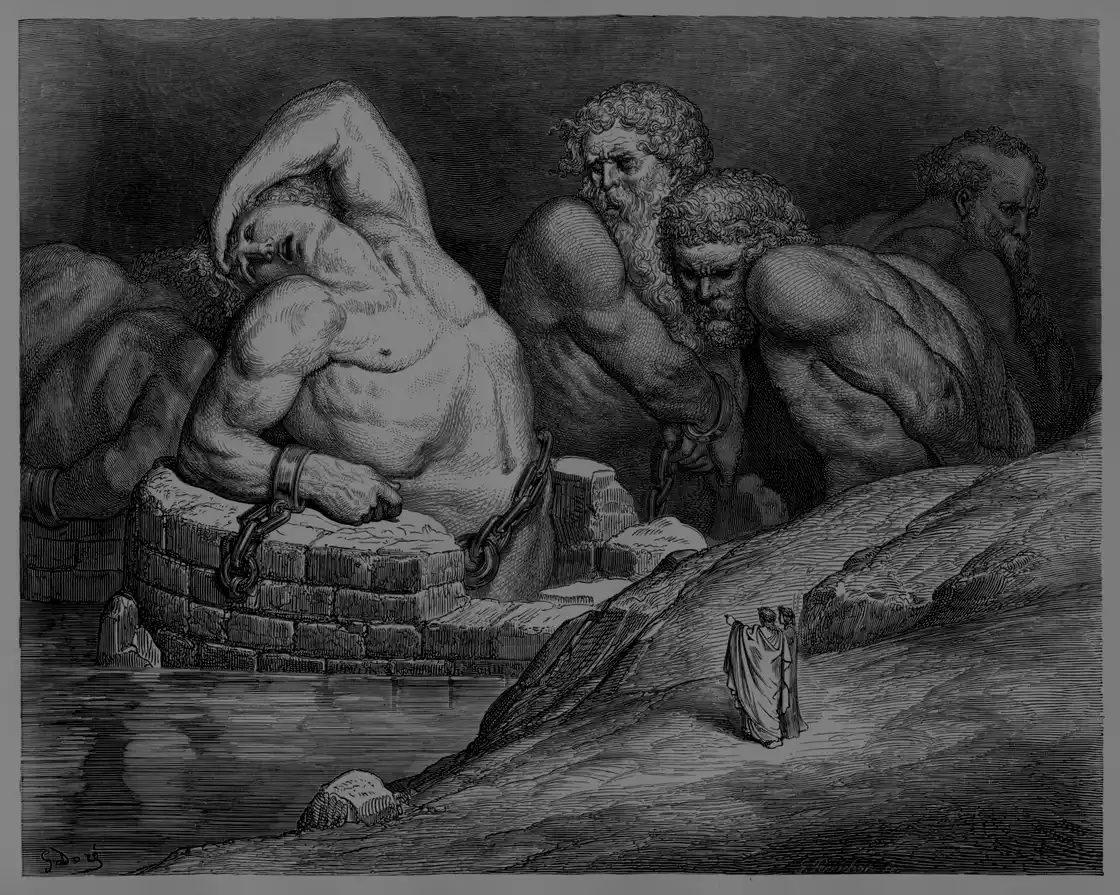
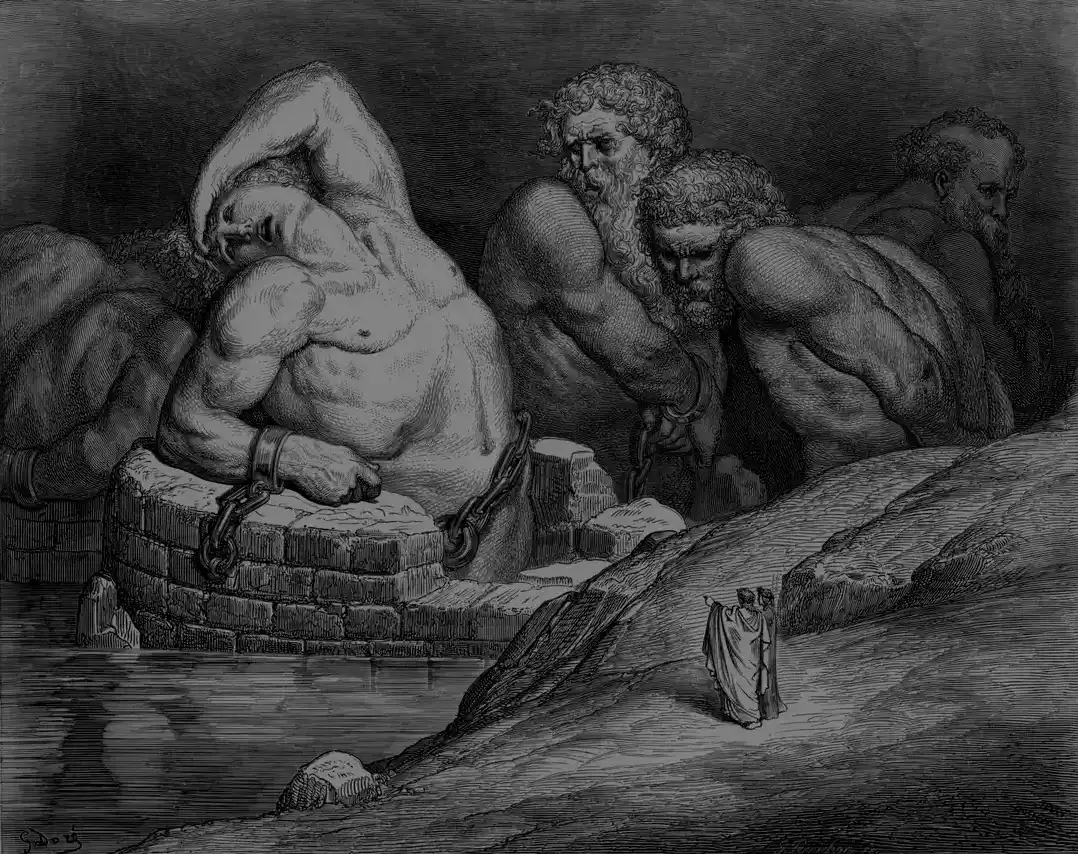
ui-fresh-eyes: map plates - crop the blank page margins off the pit and wentworth street
- DECISION-6 (row C-267)
  Cropped the scanned page margins off the-pit.webp (1120x895 -> 1078x854) and wentworth-street.webp (907x1120 -> 897x1112), left ludgate-hill.webp uncropped because it is already full-bleed, and recorded each decision in provenance.json.

Repair group I-plates. The after-capture regression readers compared
before and after at both viewports and found this damage in the sweep's
own fixes, or a decided fix it had failed to ship. Each repair carries a
test that fails against the damaged version.

diff --git a/axiomancer-mobile/assets/images/maps/__tests__/plate-crop.test.ts b/axiomancer-mobile/assets/images/maps/__tests__/plate-crop.test.ts
@@ -1,0 +1,207 @@
+/**
+ * Map-plate crop gate — DECISION-6 (row C-267), the follow-through on
+ * S4-world-C21.
+ *
+ * The owner's decision was "crop the Doré plates above their baked-in
+ * captions", plural. `charon-crossing.webp` was cropped and the other three
+ * were not, so the codex shipped plates that still carried the scanned book's
+ * blank page paper. Under `contentFit="cover"` that paper does not vanish: at
+ * 1280x800 a side margin survives as a pale bar down the screen edge, at
+ * 375x812 a foot margin survives as a pale rule under the art. Either way the
+ * backdrop stops being an engraving bled into the void and becomes a photo of
+ * a page.
+ *
+ * So this gate states the invariant at the asset, where the damage lives:
+ *
+ *   1. No shipped plate may have an outermost row or column that is FLAT BLANK
+ *      PAPER — mostly above the paper floor AND tonally dead. Both halves
+ *      matter: Ludgate Hill's sky is a legitimately bright edge (70% of that
+ *      row sits above the floor) but it is full of ink and reads as a tonal
+ *      range of ~106, while a page margin reads under 10. Testing brightness
+ *      alone would demand a crop that plate does not need.
+ *   2. A `post_process` note that records a crop as "AxB -> CxD" must name the
+ *      file's real size. The record is the only account of what was taken off;
+ *      a record that drifts from the pixels is worse than none.
+ *
+ * Hermetic: committed bytes off disk, no network, no device. Follows the
+ * sanctioned committed-source file-scan pattern used by
+ * `lib/platform/__tests__/boundary.test.ts`.
+ */
+
+import { describe, expect, it } from '@jest/globals';
+import { readdirSync, readFileSync } from 'fs';
+import * as path from 'path';
+import sharp from 'sharp';
+
+const MAPS_DIR = path.resolve(__dirname, '..');
+
+/** Luminance at or below which a pixel is ink rather than page paper, after the recorded grade. */
+const PAPER_FLOOR = 105;
+
+/** A line this bright is a candidate page margin — Ludgate's sky sits at 0.70 and is cleared by flatness. */
+const PAPER_SHARE = 0.45;
+
+/** Tonal range below this is dead flat: a scanned margin reads under 10, the flattest real edge reads 94. */
+const FLAT_RANGE = 85;
+
+type EdgeName = 'top' | 'bottom' | 'left' | 'right';
+
+/**
+ * Read every .webp plate in this directory as 8-bit greyscale samples.
+ *
+ * Purpose: give the assertions the plate's real pixels rather than its
+ * filename, so a crop that was recorded but never applied still fails.
+ * Inputs: none (reads the committed directory).
+ * Outputs: one entry per plate — file name, width, height, and the raw
+ * single-channel sample buffer.
+ * Resolves: DECISION-6 (row C-267).
+ */
+async function readPlates(): Promise<
+    { name: string; width: number; height: number; samples: Buffer }[]
+> {
+    const names = readdirSync(MAPS_DIR)
+        .filter((f) => f.endsWith('.webp'))
+        .sort();
+    return Promise.all(
+        names.map(async (name) => {
+            const { data, info } = await sharp(readFileSync(path.join(MAPS_DIR, name)))
+                .greyscale()
+                .raw()
+                .toBuffer({ resolveWithObject: true });
+            const stride = info.channels;
+            const samples = Buffer.alloc(info.width * info.height);
+            for (let i = 0; i < samples.length; i++) samples[i] = data[i * stride];
+            return { name, width: info.width, height: info.height, samples };
+        }),
+    );
+}
+
+/**
+ * The four outermost pixel lines of a plate.
+ *
+ * Purpose: a page margin always reaches the very edge of the file, so the
+ * outermost line is where it is provable; a partial crop that leaves one paper
+ * row still fails here.
+ * Inputs: the greyscale samples plus the plate's width and height.
+ * Outputs: a record of edge name to that edge's samples, top/bottom read
+ * left-to-right and left/right read top-to-bottom.
+ * Resolves: DECISION-6 (row C-267).
+ */
+function edgeLines(samples: Buffer, width: number, height: number): Record<EdgeName, number[]> {
+    const across = (offset: number) => Array.from({ length: width }, (_, x) => samples[offset + x]);
+    const down = (offset: number) => Array.from({ length: height }, (_, y) => samples[y * width + offset]);
+    return {
+        top: across(0),
+        bottom: across((height - 1) * width),
+        left: down(0),
+        right: down(width - 1),
+    };
+}
+
+/**
+ * Judge one edge line: is it the scanned book's blank page paper?
+ *
+ * Purpose: separate a bright edge that is ART (Ludgate's sky: bright and full
+ * of ink) from a bright edge that is PAPER (flat, tonally dead).
+ * Inputs: one edge's greyscale samples.
+ * Outputs: the share of samples above the paper floor, the line's tonal range,
+ * and the verdict — blank only when the line is both mostly light and flat.
+ * Resolves: DECISION-6 (row C-267).
+ */
+function blankPaperVerdict(line: number[]): { share: number; range: number; blank: boolean } {
+    const lit = line.filter((v) => v > PAPER_FLOOR).length;
+    const share = lit / line.length;
+    const range = Math.max(...line) - Math.min(...line);
+    return { share, range, blank: share > PAPER_SHARE && range < FLAT_RANGE };
+}
+
+/**
+ * The finished size a `post_process` note claims, when it records a crop.
+ *
+ * Purpose: hold the written account to the pixels, so "cropped 1120x895 ->
+ * 1078x854" cannot outlive the file it describes.
+ * Inputs: a provenance entry's `post_process` string.
+ * Outputs: the recorded result size, or null when the note records no crop.
+ * Resolves: DECISION-6 (row C-267).
+ */
+function recordedCrop(postProcess: string): { width: number; height: number } | null {
+    const m = /(\d+)x(\d+)\s*->\s*(\d+)x(\d+)/.exec(postProcess);
+    return m ? { width: Number(m[3]), height: Number(m[4]) } : null;
+}
+
+/**
+ * Every provenance entry paired with each file it covers.
+ *
+ * Purpose: `covers` is a string on the oldest entry and an array on the rest;
+ * flatten that difference once so the assertions stay about the art.
+ * Inputs: none (reads the committed `provenance.json`).
+ * Outputs: one entry per covered file — file name and its `post_process` note.
+ * Resolves: DECISION-6 (row C-267).
+ */
+function provenanceByFile(): { name: string; postProcess: string }[] {
+    const raw = JSON.parse(readFileSync(path.join(MAPS_DIR, 'provenance.json'), 'utf8')) as {
+        covers: string | string[];
+        post_process?: string;
+    }[];
+    return raw.flatMap((entry) =>
+        (Array.isArray(entry.covers) ? entry.covers : [entry.covers]).map((name) => ({
+            name,
+            postProcess: entry.post_process ?? '',
+        })),
+    );
+}
+
+describe('map plates carry no page paper (DECISION-6 / C-267)', () => {
+    it('finds the plates to check', async () => {
+        const plates = await readPlates();
+        expect(plates.map((p) => p.name)).toEqual([
+            'charon-crossing.webp',
+            'forest-dark.webp',
+            'ludgate-hill.webp',
+            'the-pit.webp',
+            'wentworth-street.webp',
+        ]);
+    }, 20000);
+
+    it('has no edge that is flat blank paper', async () => {
+        const plates = await readPlates();
+        const offenders: string[] = [];
+        for (const plate of plates) {
+            const edges = edgeLines(plate.samples, plate.width, plate.height);
+            for (const [edge, line] of Object.entries(edges) as [EdgeName, number[]][]) {
+                const verdict = blankPaperVerdict(line);
+                if (verdict.blank) {
+                    offenders.push(
+                        `${plate.name} ${edge}: ${(verdict.share * 100).toFixed(0)}% above the paper `
+                            + `floor over a tonal range of ${verdict.range}`,
+                    );
+                }
+            }
+        }
+        expect(offenders).toEqual([]);
+    }, 20000);
+
+    it('records every crop at the size the file actually is', async () => {
+        const plates = await readPlates();
+        const drift: string[] = [];
+        for (const { name, postProcess } of provenanceByFile()) {
+            const recorded = recordedCrop(postProcess);
+            if (!recorded) continue;
+            const plate = plates.find((p) => p.name === name);
+            expect(plate).toBeDefined();
+            if (plate && (plate.width !== recorded.width || plate.height !== recorded.height)) {
+                drift.push(
+                    `${name}: provenance records ${recorded.width}x${recorded.height}, `
+                        + `file is ${plate.width}x${plate.height}`,
+                );
+            }
+        }
+        expect(drift).toEqual([]);
+    }, 20000);
+
+    it('accounts for every plate in provenance.json', async () => {
+        const plates = await readPlates();
+        const covered = new Set(provenanceByFile().map((e) => e.name));
+        expect(plates.filter((p) => !covered.has(p.name)).map((p) => p.name)).toEqual([]);
+    }, 20000);
+});
